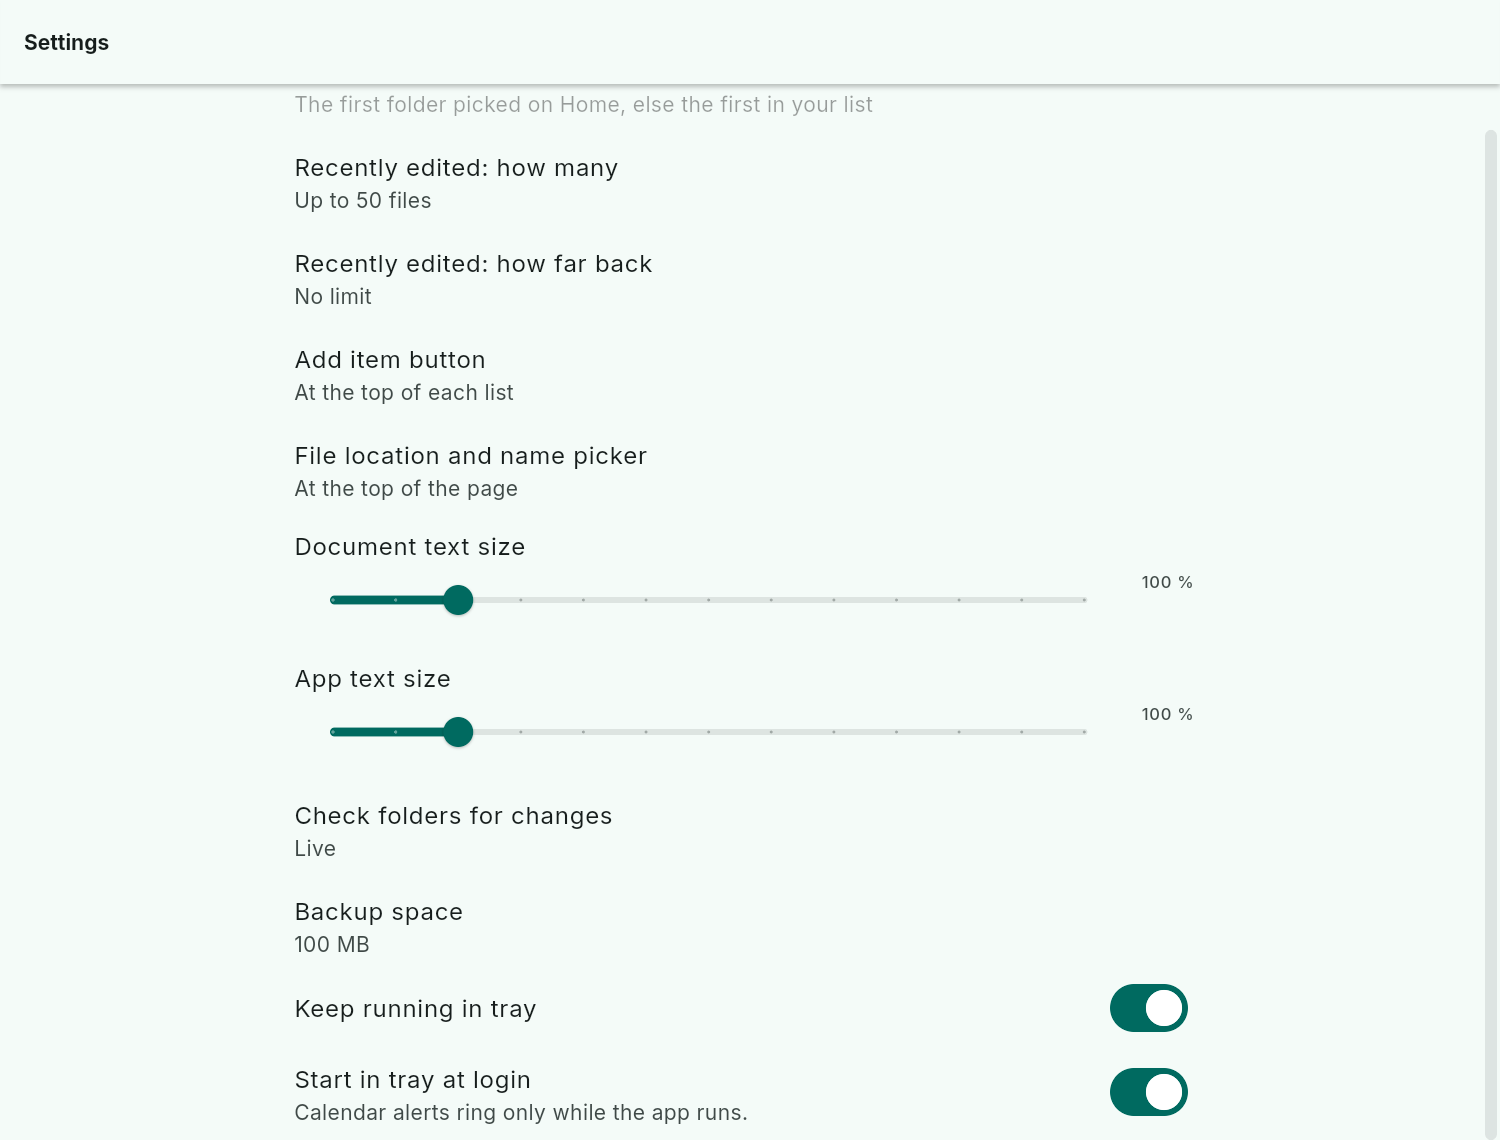
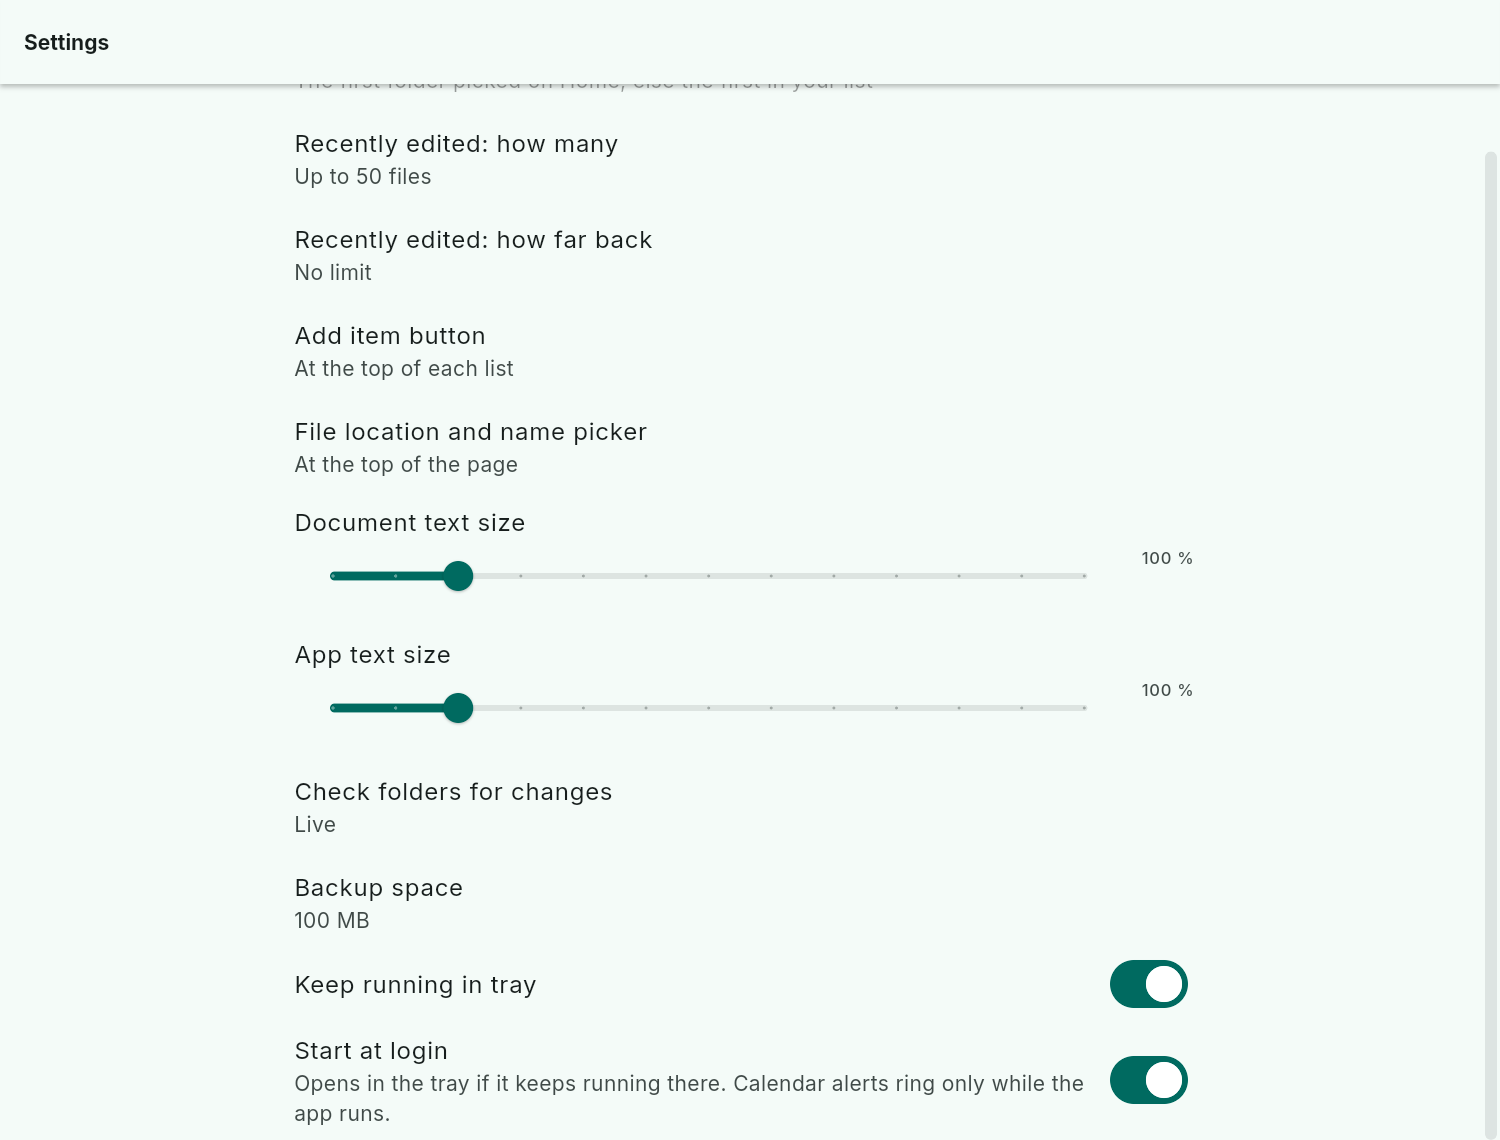
Alerts: Start at login separate from Keep running in tray, background check about every 2 hours, clearer limits on when alerts from other devices arrive

diff --git a/app/lib/tray/start_at_login.dart b/app/lib/tray/start_at_login.dart
@@ -2,34 +2,29 @@ import 'package:flutter_riverpod/flutter_riverpod.dart';
 
 import '../platform/platform_wiring.dart';
 import '../settings/device_settings_controller.dart';
-import 'close_to_tray_controller.dart';
 import 'login_start.dart';
+import 'start_in_background.dart' show backgroundStartProvider;
 
-/// Starting the app in the tray at login, as the user turns it on or off:
-/// the desktop is asked first, then the setting is kept; turning it on
-/// keeps the app in the tray on close too.
+/// Starting the app at login, as the user turns it on or off: the desktop
+/// is asked first, then the setting is kept. Whether it starts hidden in
+/// the tray is the tray setting's own choice, made at the start
+/// ([backgroundStartProvider]).
 final class StartAtLogin {
-  StartAtLogin({
-    required this._desktop,
-    required this._keep,
-    required this._keepInTray,
-  });
+  StartAtLogin({required this._desktop, required this._keep});
 
   final LoginStart _desktop;
   final Future<void> Function({required bool start}) _keep;
-  final Future<void> Function() _keepInTray;
 
   /// Turns it on or off as [start] says; whether the desktop agreed.
   Future<bool> set({required bool start}) async {
     if (!await _desktop.set(start: start)) return false;
     await _keep(start: start);
-    if (start) await _keepInTray();
     return true;
   }
 }
 
-/// Starting the app in the tray at login; `null` where the app has no
-/// tray or the desktop can't start it.
+/// Starting the app at login; `null` where the app has no tray or the
+/// desktop can't start it.
 final startAtLoginProvider = Provider<StartAtLogin?>((ref) {
   final desktop = ref.watch(loginStartProvider);
   if (desktop == null || ref.watch(systemTrayProvider) == null) return null;
@@ -38,7 +33,5 @@ final startAtLoginProvider = Provider<StartAtLogin?>((ref) {
     keep: ({required start}) => ref
         .read(deviceSettingsProvider.notifier)
         .change((settings) => settings.copyWith(startAtLogin: start)),
-    keepInTray: () =>
-        ref.read(closeToTrayProvider.notifier).setEnabled(enabled: true),
   );
 });

diff --git a/app/test/tray/ui/start_at_login_tile_test.dart b/app/test/tray/ui/start_at_login_tile_test.dart
@@ -66,22 +66,19 @@ void main() {
         ),
       );
 
-  testWidgets('turned on, it starts the app at login and keeps it in the '
-      'tray on close', (tester) async {
+  testWidgets('turned on, it starts the app at login and leaves the tray '
+      'setting as it is', (tester) async {
     final loginStart = _LoginStart();
     await show(tester, loginStart);
+    final closeToTray = settings(tester).closeToTray;
 
-    await tester.tap(find.text('Start in tray at login'));
-    await settle(
-      tester,
-      until: () =>
-          settings(tester).startAtLogin && settings(tester).closeToTray,
-    );
+    await tester.tap(find.text('Start at login'));
+    await settle(tester, until: () => settings(tester).startAtLogin);
 
     expect(loginStart.asked, [true]);
     expect(
       (settings(tester).startAtLogin, settings(tester).closeToTray),
-      (true, true),
+      (true, closeToTray),
     );
   });
 
@@ -91,7 +88,7 @@ void main() {
     final loginStart = _LoginStart()..agrees = false;
     await show(tester, loginStart);
 
-    await tester.tap(find.text('Start in tray at login'));
+    await tester.tap(find.text('Start at login'));
     await tester.pumpAndSettle();
 
     expect(find.text("The desktop didn't allow it."), findsOneWidget);
@@ -114,6 +111,6 @@ void main() {
         ),
       ),
     );
-    expect(find.text('Start in tray at login'), findsNothing);
+    expect(find.text('Start at login'), findsNothing);
   });
 }

diff --git a/app/lib/tray/ui/start_at_login_tile.dart b/app/lib/tray/ui/start_at_login_tile.dart
@@ -5,8 +5,8 @@ import '../../common/snack.dart';
 import '../../settings/device_settings_controller.dart';
 import '../start_at_login.dart';
 
-/// Settings row that starts the app in the tray at login, so calendar
-/// alerts ring from then on. Nothing where the app has no tray.
+/// Settings row that starts the app at login, so calendar alerts ring
+/// from then on. Nothing where the app has no tray.
 class StartAtLoginTile extends ConsumerWidget {
   const StartAtLoginTile({super.key});
 
@@ -18,8 +18,11 @@ class StartAtLoginTile extends ConsumerWidget {
       deviceSettingsProvider.select((s) => s.requireValue.startAtLogin),
     );
     return SwitchListTile(
-      title: const Text('Start in tray at login'),
-      subtitle: const Text('Calendar alerts ring only while the app runs.'),
+      title: const Text('Start at login'),
+      subtitle: const Text(
+        'Opens in the tray if it keeps running there. '
+        'Calendar alerts ring only while the app runs.',
+      ),
       value: start,
       onChanged: (start) async {
         if (!await startAtLogin.set(start: start) && context.mounted) {

diff --git a/app/lib/platform/linux/background_portal.dart b/app/lib/platform/linux/background_portal.dart
@@ -5,8 +5,7 @@ import 'package:dbus/dbus.dart';
 import '../../tray/login_start.dart';
 import '../../tray/start_in_background.dart';
 
-/// Starts the app in the tray at login through the desktop's Background
-/// portal (`org.freedesktop.portal.Background`), which works inside the
+/// Starts the app at login through the desktop's Background portal (`org.freedesktop.portal.Background`), which works inside the
 /// Flatpak sandbox without access to the host: the desktop writes the
 /// autostart entry, which starts the app with [backgroundFlag].
 final class BackgroundPortal implements LoginStart {
@@ -44,7 +43,7 @@ final class BackgroundPortal implements LoginStart {
         DBusDict.stringVariant({
           'handle_token': DBusString(token),
           'reason': const DBusString(
-            'Calendar alerts ring while the app runs in the tray.',
+            'Starts at login, so calendar alerts can ring.',
           ),
           'autostart': DBusBoolean(start),
           'commandline': DBusArray.string(['truce_editor', backgroundFlag]),

diff --git a/app/lib/platform/android/alert_check_job.dart b/app/lib/platform/android/alert_check_job.dart
@@ -6,16 +6,20 @@ import '../../storage/app_start.dart';
 
 const _check = 'io.github.trucefiles.editor.alert_check';
 
+/// How often the background check runs, about.
+const alertCheckEvery = Duration(hours: 2);
+
 /// Asks the system to run the alerts' background check ([alertCheckOf])
-/// about every 6 hours, with the app closed too (the system batches it
-/// with other work); kept as it is if already asked.
+/// about every [alertCheckEvery], with the app closed too (the system
+/// batches it with other work, and may run it later to save battery); a
+/// check asked before takes the new interval.
 Future<void> scheduleAlertCheck() async {
   await Workmanager().initialize(runAlertCheck);
   await Workmanager().registerPeriodicTask(
     _check,
     _check,
-    frequency: const Duration(hours: 6),
-    existingWorkPolicy: ExistingPeriodicWorkPolicy.keep,
+    frequency: alertCheckEvery,
+    existingWorkPolicy: ExistingPeriodicWorkPolicy.update,
   );
 }
 

diff --git a/app/lib/tray/login_start.dart b/app/lib/tray/login_start.dart
@@ -1,7 +1,7 @@
-/// Starting the app in the tray when the user logs in, where the desktop
-/// lets the app ask for it.
+/// Starting the app when the user logs in, where the desktop lets the app
+/// ask for it.
 abstract interface class LoginStart {
-  /// Asks the desktop to start the app in the tray at login, or no longer
-  /// to; whether the desktop agreed.
+  /// Asks the desktop to start the app at login, or no longer to; whether
+  /// the desktop agreed.
   Future<bool> set({required bool start});
 }

diff --git a/docs/features.md b/docs/features.md
@@ -97,7 +97,7 @@ Alerts ring for the calendars shown in the Calendars tab, whoever set
 them. On Android they ring even with the app closed, as a notification
 or, if you pick **Alarm** in Settings, full screen until you dismiss or
 snooze them. On Linux they ring while the app runs, in a window or the
-tray; **Start in tray at login** keeps it running. An alert that came
+tray; **Start at login** with **Keep running in tray** keeps it running. An alert that came
 while nothing could ring it shows once, quietly, while its event lasts.
 Tap an alert to open its event or task.
 
@@ -117,7 +117,7 @@ Tap an alert to open its event or task.
 <img src="screenshots/calendar/calendar_event_zones_touch.png" width="300" alt="The event form of a flight: start and end each with its own time zone">
 <img src="screenshots/calendar/calendar_event_links_touch.png" width="300" alt="An event's sheet: its place and the links in its notes underlined, to open with a tap">
 <img src="screenshots/calendar/calendar_alarm_touch.png" width="300" alt="An alert ringing as an alarm on a phone: its title and time, with Dismiss, Snooze 10 min and Open">
-<img src="screenshots/calendar/calendar_alert_settings_desktop.png" width="600" alt="Settings on Linux: Start in tray at login, as alerts ring only while the app runs">
+<img src="screenshots/calendar/calendar_alert_settings_desktop.png" width="600" alt="Settings on Linux: Start at login, as alerts ring only while the app runs">
 <img src="screenshots/calendar/calendar_alert_style_touch.png" width="300" alt="Settings on a phone: calendar alerts ring as a notification or an alarm">
 
 ## Home, All and search

diff --git a/docs/known-limitations.md b/docs/known-limitations.md
@@ -98,13 +98,14 @@ Accepted behavior that is not planned to change, grouped by topic.
   document, a new calendar gets its file only once you add something to
   it. Leave it with neither and it is gone.
 - **On Linux, alerts ring only while Truce runs.** In a window or in the
-  tray. Turn on "Start in tray at login" so it runs from the start.
-- **On Android, an alert added on another device rings after a while.**
-  It rings once Truce next checks in the background (about every 6
-  hours, longer when the phone saves battery) or once you open Truce.
-- **Alerts from other devices arrive within 15 minutes in the
-  background.** While Truce is in the tray (Linux) or in the background
-  (Android), it looks for changed calendars every 15 minutes.
+  tray. Turn on "Start at login" and "Keep running in tray" so it runs
+  from the start and keeps running when you close the window.
+- **Alerts from other devices can take a while to arrive.** An open
+  Truce notices a changed calendar soon. Hidden in the tray or in the
+  background, it looks every 15 minutes. With Truce closed on Android, it
+  looks about every 2 hours, and later when the phone saves battery. Until
+  then, an alert added on another device doesn't ring here, and if its
+  time passes meanwhile it shows as missed.
 - **An alert edited in an open calendar rings once the calendar is
   saved.**
 - **Dismissing an alert on one device doesn't dismiss it on others.**
